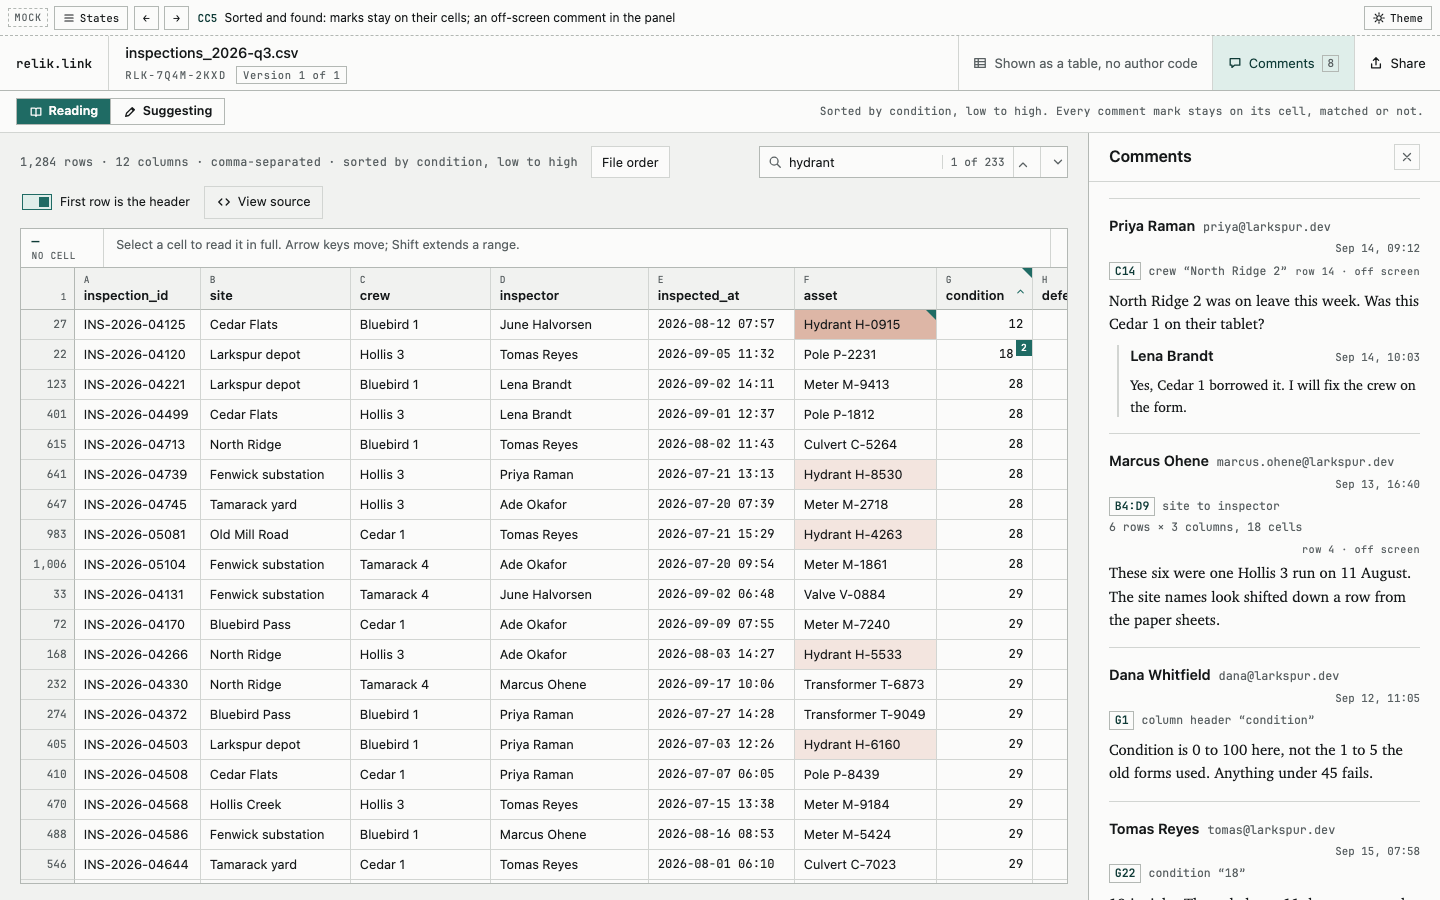
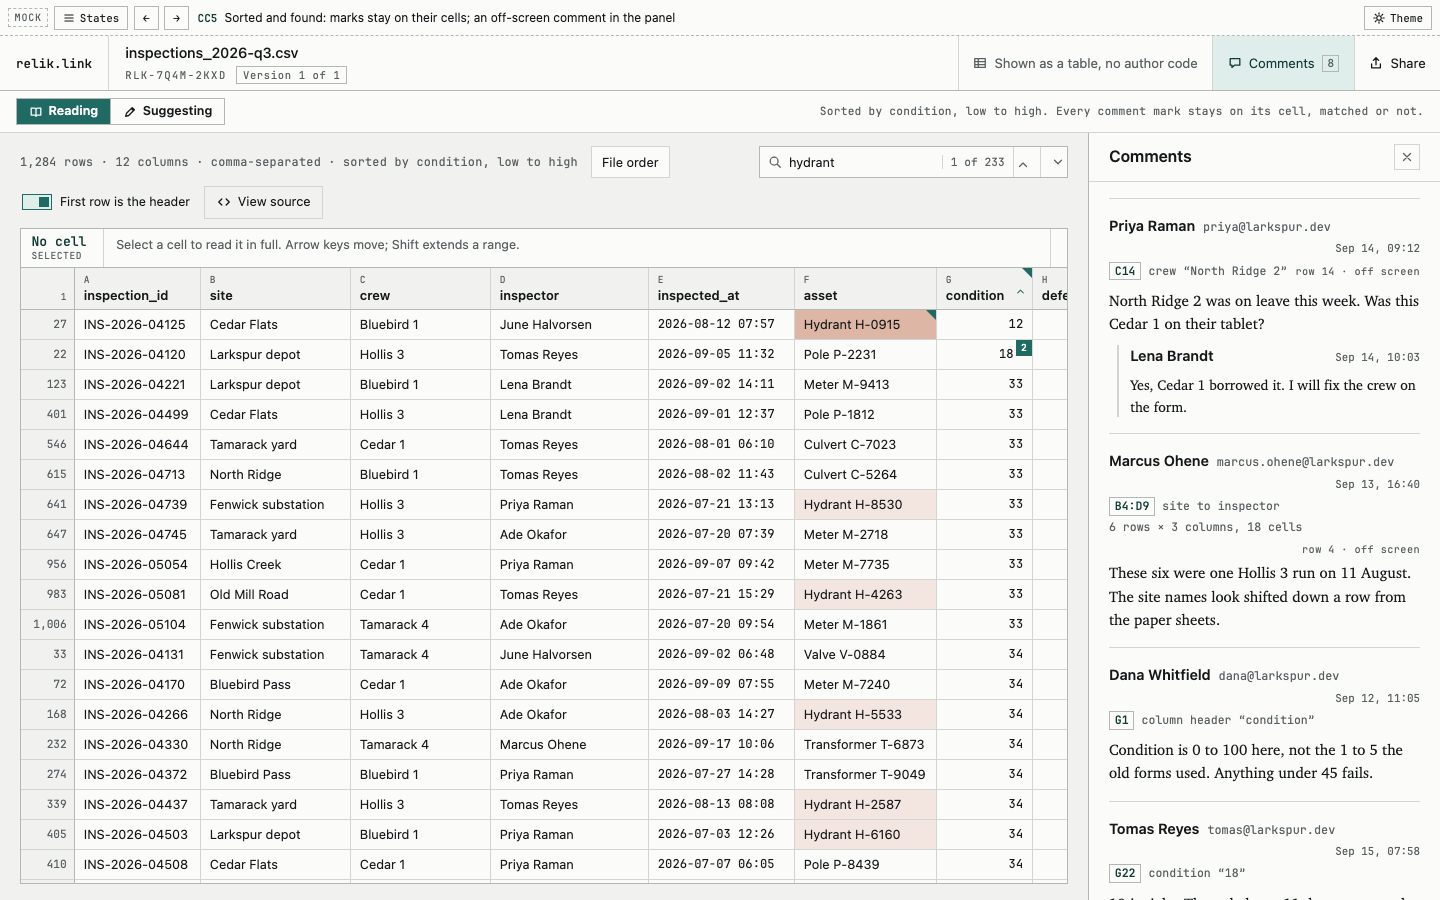
Finish the structured-formats mock and reshoot every state
Corrects layout misses found on the contact sheets: affordance and corner
mark no longer cover cell values, the version-changed note sits once on a
thread card, off-screen cell comments label themselves in the panel, ranges
tint their member cells when sorted, the large-array tree scrolls to its
selection, narrow frames wrap the tree breadcrumb and the epub bar, and the
fixtures carry valid times. 53 screenshots in mock-shots/.

diff --git a/docs/plans/structured-formats/mockup.html b/docs/plans/structured-formats/mockup.html
@@ -697,6 +697,16 @@ button { font: inherit; }
   .ep-col p { text-align: left; }
   .dt-cellbar { display: none; }
 }
+@container viewer (max-width: 34rem) {
+  .sheet { max-height: 56%; }
+  .jt-crumb { flex-wrap: wrap; gap: .35rem; padding: .35rem .5rem; }
+  .jt-path { flex-basis: 100%; }
+  .jt-pointer { display: none; }
+  .ep-bar .ep-title, .ep-size { display: none; }
+  .ep-pos { margin-left: auto; font-size: .64rem; }
+  .nb-out .nb-out-kind { position: static; display: block; margin-bottom: .2rem; text-align: right; }
+}
+.raw-src { position: relative; }
 </style>
 </head>
 <body>
@@ -916,7 +926,7 @@ function buildInspections() {
     );
     const score = Math.max(
       2,
-      Math.min(100, Math.round(66 + (r() - 0.5) * 2 * 38))
+      Math.min(100, Math.round(66 + (r() - 0.5) * 2 * 33))
     );
     const asset = pick(r, ASSETS);
     const site = pick(r, SITES);
@@ -970,9 +980,9 @@ function buildInspections() {
   set(14, 2, 'North Ridge 2');
   set(14, 1, 'North Ridge');
   set(14, 3, 'Priya Raman');
-  set(14, 6, '62');
+  set(14, 6, '99');
   set(14, 5, 'Hydrant H-2207');
-  set(14, 11, 'Needs repair');
+  set(14, 11, 'Passed');
   set(14, 8, 'Outlet threads worn; cap held with tape.');
   set(14, 4, '2026-08-11 07:20');
   set(27, 5, 'Hydrant H-0915');
@@ -989,6 +999,7 @@ function buildInspections() {
   set(22, 7, '4');
   set(2, 11, 'Passed');
   set(2, 6, '88');
+  set(3, 6, '100');
   set(1201, 11, 'Passed');
   set(1201, 6, '97');
   set(1201, 5, 'Culvert C-15');
@@ -1122,14 +1133,14 @@ const SENSORS = {
 };
 /* fixture: voorraad_magazijn_2026-09.csv, a semicolon file from a Dutch depot */
 const VR_COLS = [
-  { name: 'artikelnummer', w: 120 },
+  { name: 'artikelnummer', w: 132 },
   { name: 'omschrijving', w: 250 },
   { name: 'locatie', w: 92 },
   { name: 'aantal', w: 80, num: true },
   { name: 'eenheid', w: 82 },
-  { name: 'prijs_per_stuk', w: 118, num: true },
+  { name: 'prijs_per_stuk', w: 132, num: true },
   { name: 'totaal', w: 110, num: true },
-  { name: 'laatst_geteld', w: 112, kind: 'date' },
+  { name: 'laatst_geteld', w: 130, kind: 'date' },
 ];
 const VR_ITEMS = [
   'Brandkraandop DN80',
@@ -1288,9 +1299,9 @@ const XL = (() => {
         { name: 'Line item', w: 210 },
         { name: 'Owner', w: 140 },
         { name: 'Due', w: 112, kind: 'date' },
-        { name: 'Budget', w: 112, num: true },
-        { name: 'Spent', w: 112, num: true },
-        { name: 'Remaining', w: 116, num: true },
+        { name: 'Budget', w: 132, num: true },
+        { name: 'Spent', w: 124, num: true },
+        { name: 'Remaining', w: 128, num: true },
         { name: '% used', w: 92, num: true },
       ],
       budget
@@ -2581,7 +2592,7 @@ function tableView() {
       ? `Sheet ${tb.book.sheets.indexOf(ds) + 1} of ${tb.book.sheets.length}, ${ds.name} \u00b7 ${nfmt(ds.n)} rows \u00b7 ${nfmt(ds.cols.length)} columns`
       : `${nfmt(ds.n)} rows \u00b7 ${nfmt(ds.cols.length)} columns \u00b7 ${ds.delim}`,
     sortCol
-      ? ` \u00b7 sorted by ${sortCol.name}, ${tb.sort.dir === 'desc' ? (sortCol.num ? 'high to low' : 'Z to A') : sortCol.num ? 'low to high' : 'A to Z'}`
+      ? ` \u00b7 sorted by ${sortCol.name}, ${tb.sort.dir === 'desc' ? (sortCol.num ? 'high to low' : sortCol.kind === 'date' ? 'newest first' : 'Z to A') : sortCol.num ? 'low to high' : sortCol.kind === 'date' ? 'oldest first' : 'A to Z'}`
       : ''
   );
   const fi = h('input', {
@@ -3233,7 +3244,7 @@ function renderCellbar() {
   }
   if (!tb.sel) {
     tb.cellbar.replaceChildren(
-      h('div', { class: 'dt-addr' }, '\u2014', h('small', null, 'no cell')),
+      h('div', { class: 'dt-addr' }, 'No cell', h('small', null, 'selected')),
       h(
         'div',
         { class: 'dt-value is-empty' },
@@ -3625,7 +3636,13 @@ function sourceStage(text, opts) {
   );
   V.stage.append(bar);
   if (o.notice) V.stage.append(o.notice);
-  V.stage.append(h('div', { class: 'raw-src' }, codeView(text, o)));
+  const raw = h('div', { class: 'raw-src' }, codeView(text, o));
+  V.stage.append(raw);
+  if (o.err)
+    raf2(() => {
+      const e = raw.querySelector('.err-line');
+      if (e) raw.scrollTop = Math.max(0, e.offsetTop - raw.clientHeight / 2);
+    });
 }
 function notice(text, info) {
   return h(
@@ -6432,12 +6449,20 @@ S(
   }
 );
 S('J3', TR, 'A large array (48,210 readings): windowed rows, Expand all off', {
-  setup: (V) =>
+  setup: (V) => {
     tree(V, {
       open: new Set(['', '/readings']),
       sel: '/readings/20417',
       scrollTo: 20417 * 27 - 200,
-    }),
+    });
+    V.mockNote = 'Mock: rows in the DOM are counted after load.';
+  },
+  after: (V) => {
+    const n = V.jt.sizer.children.length;
+    const note = $('.mk-note', V.stage);
+    if (note)
+      note.textContent = `Mock: rows in the DOM right now: ${n} of ${nfmt(V.jt.rows.length)} visible nodes. Scroll and the window moves.`;
+  },
 });
 S('J4', TR, 'Duplicate key: both marked, the one a parser keeps says so', {
   setup: (V) => {
@@ -6449,7 +6474,7 @@ S('J5', TR, 'Parse error: notice with line and column, then the source', {
   setup: (V) => {
     tree(V);
     V.view = 'source';
-    V.mockNote = 'Mock: the fixture source is cut after line 38.';
+    V.mockNote = 'Mock: the fixture source is cut after line 37.';
     V.comments = [];
     V.sidebar = false;
     V.source = {
@@ -6466,7 +6491,7 @@ S('J6', TR, 'Source mode: Suggesting switched the view to the source', {
   setup: (V) => {
     tree(V);
     V.view = 'source';
-    V.mockNote = 'Mock: the fixture source is cut after line 38.';
+    V.mockNote = 'Mock: the fixture source is cut after line 37.';
     V.mode = 'suggesting';
     V.stripNote =
       'JSON is suggested on as text. The tree comes back when you switch to Reading.';
